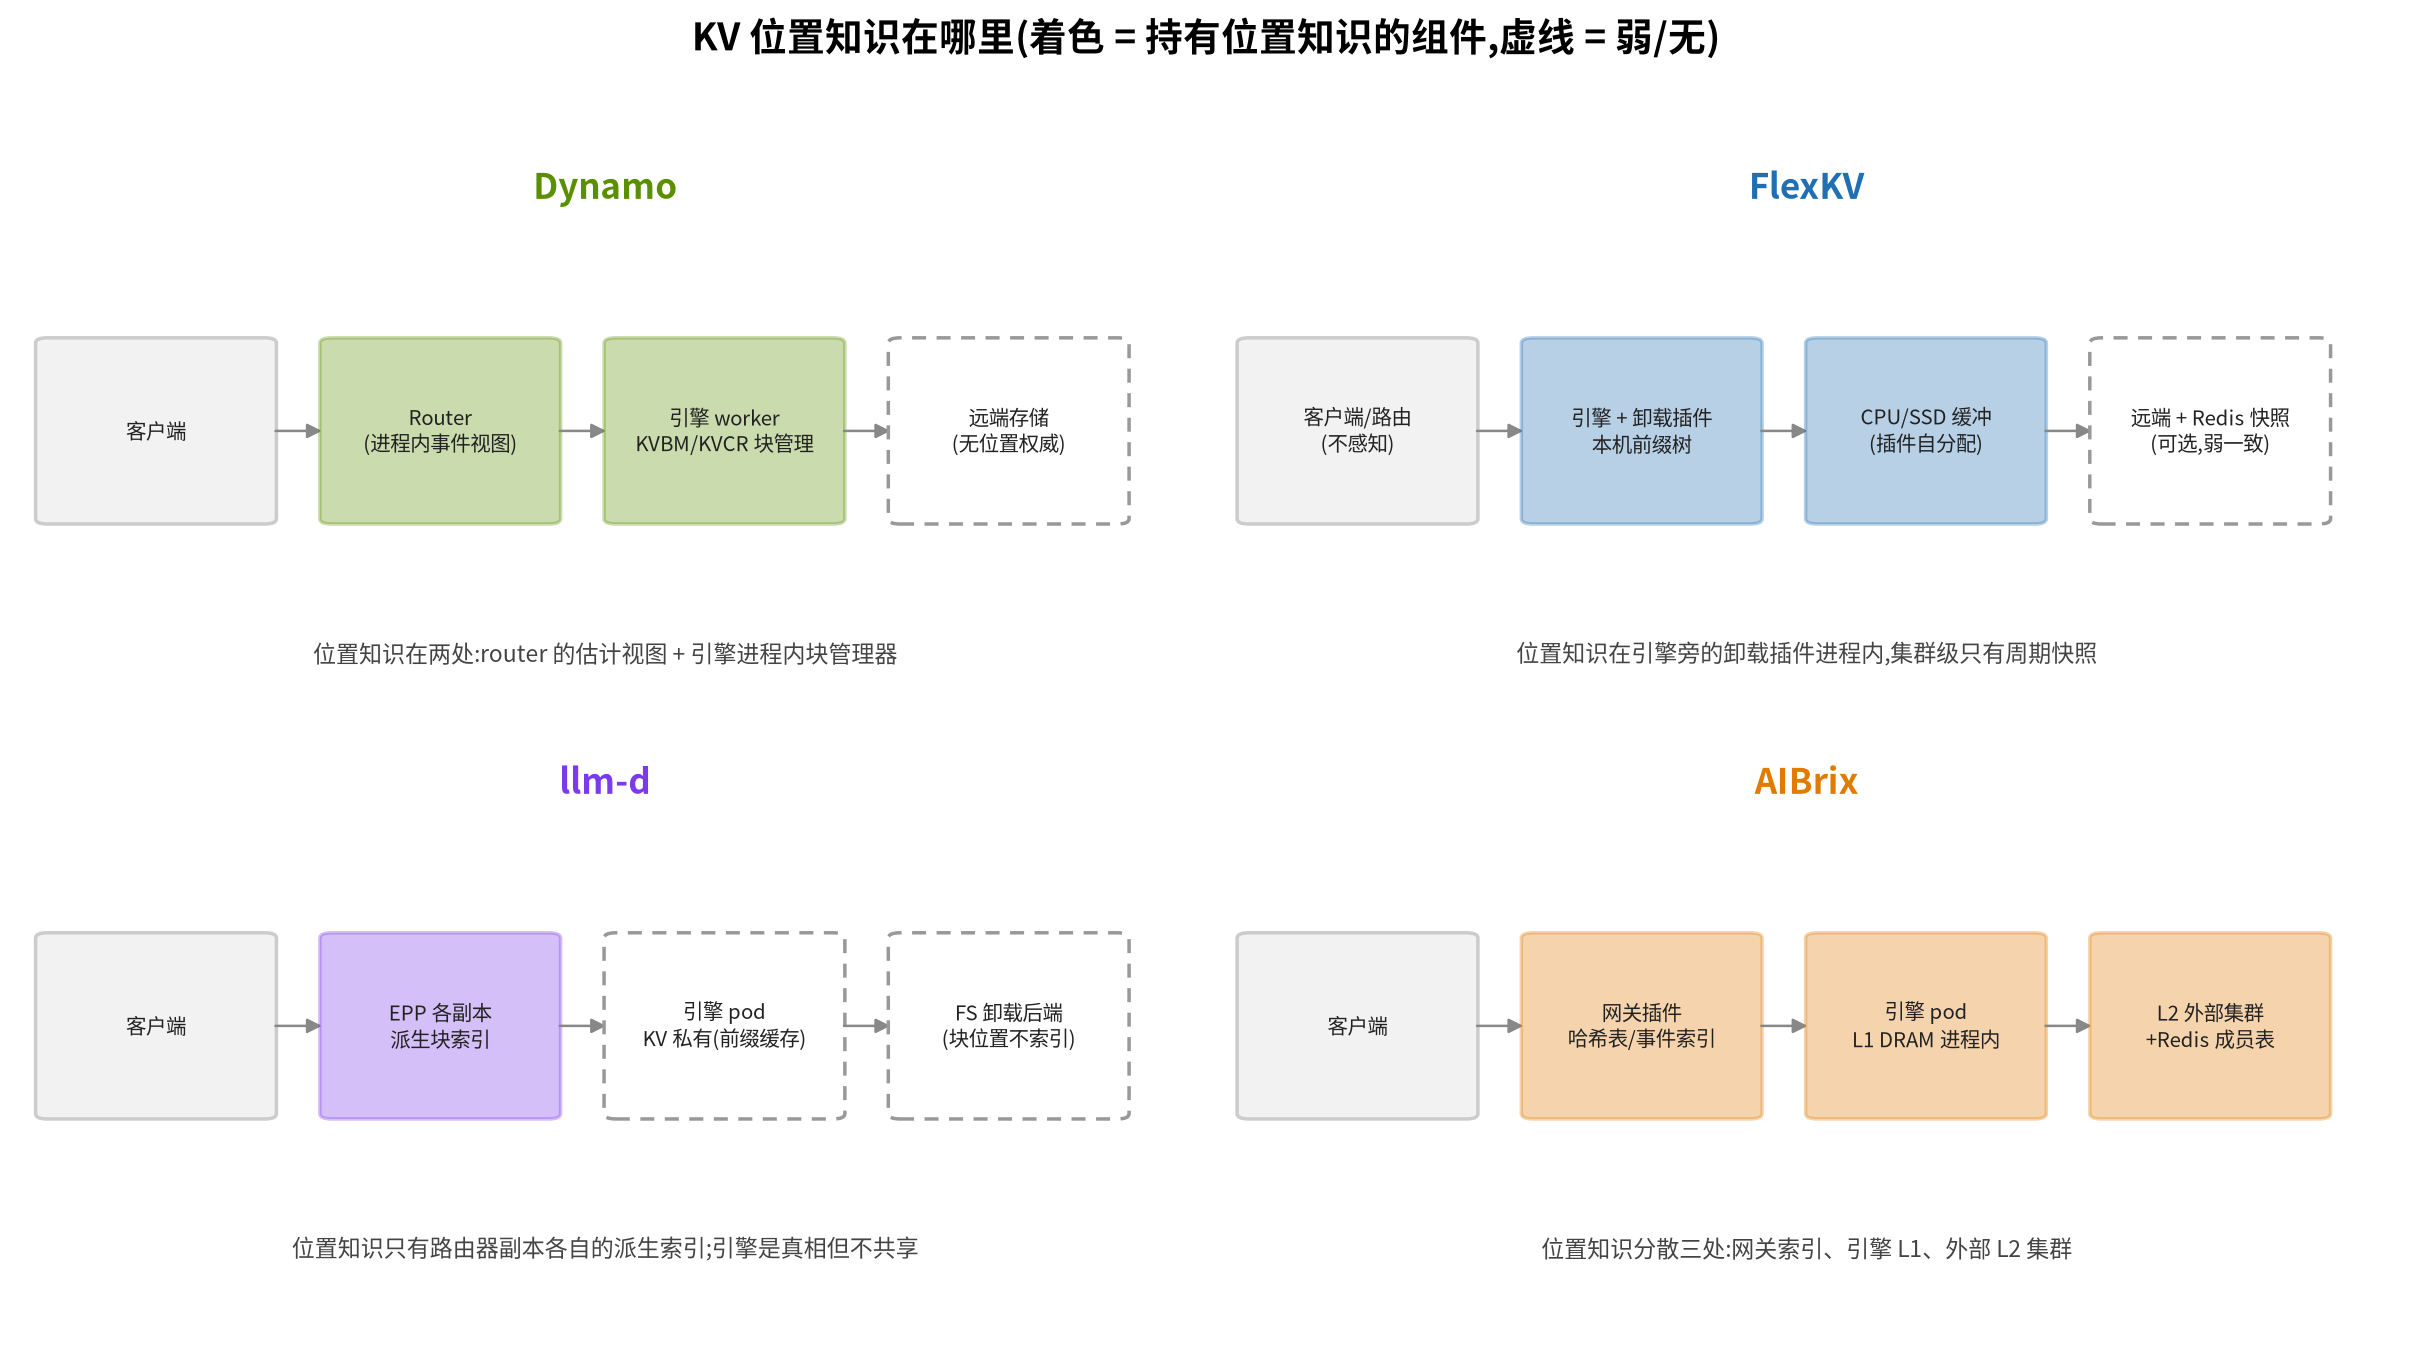
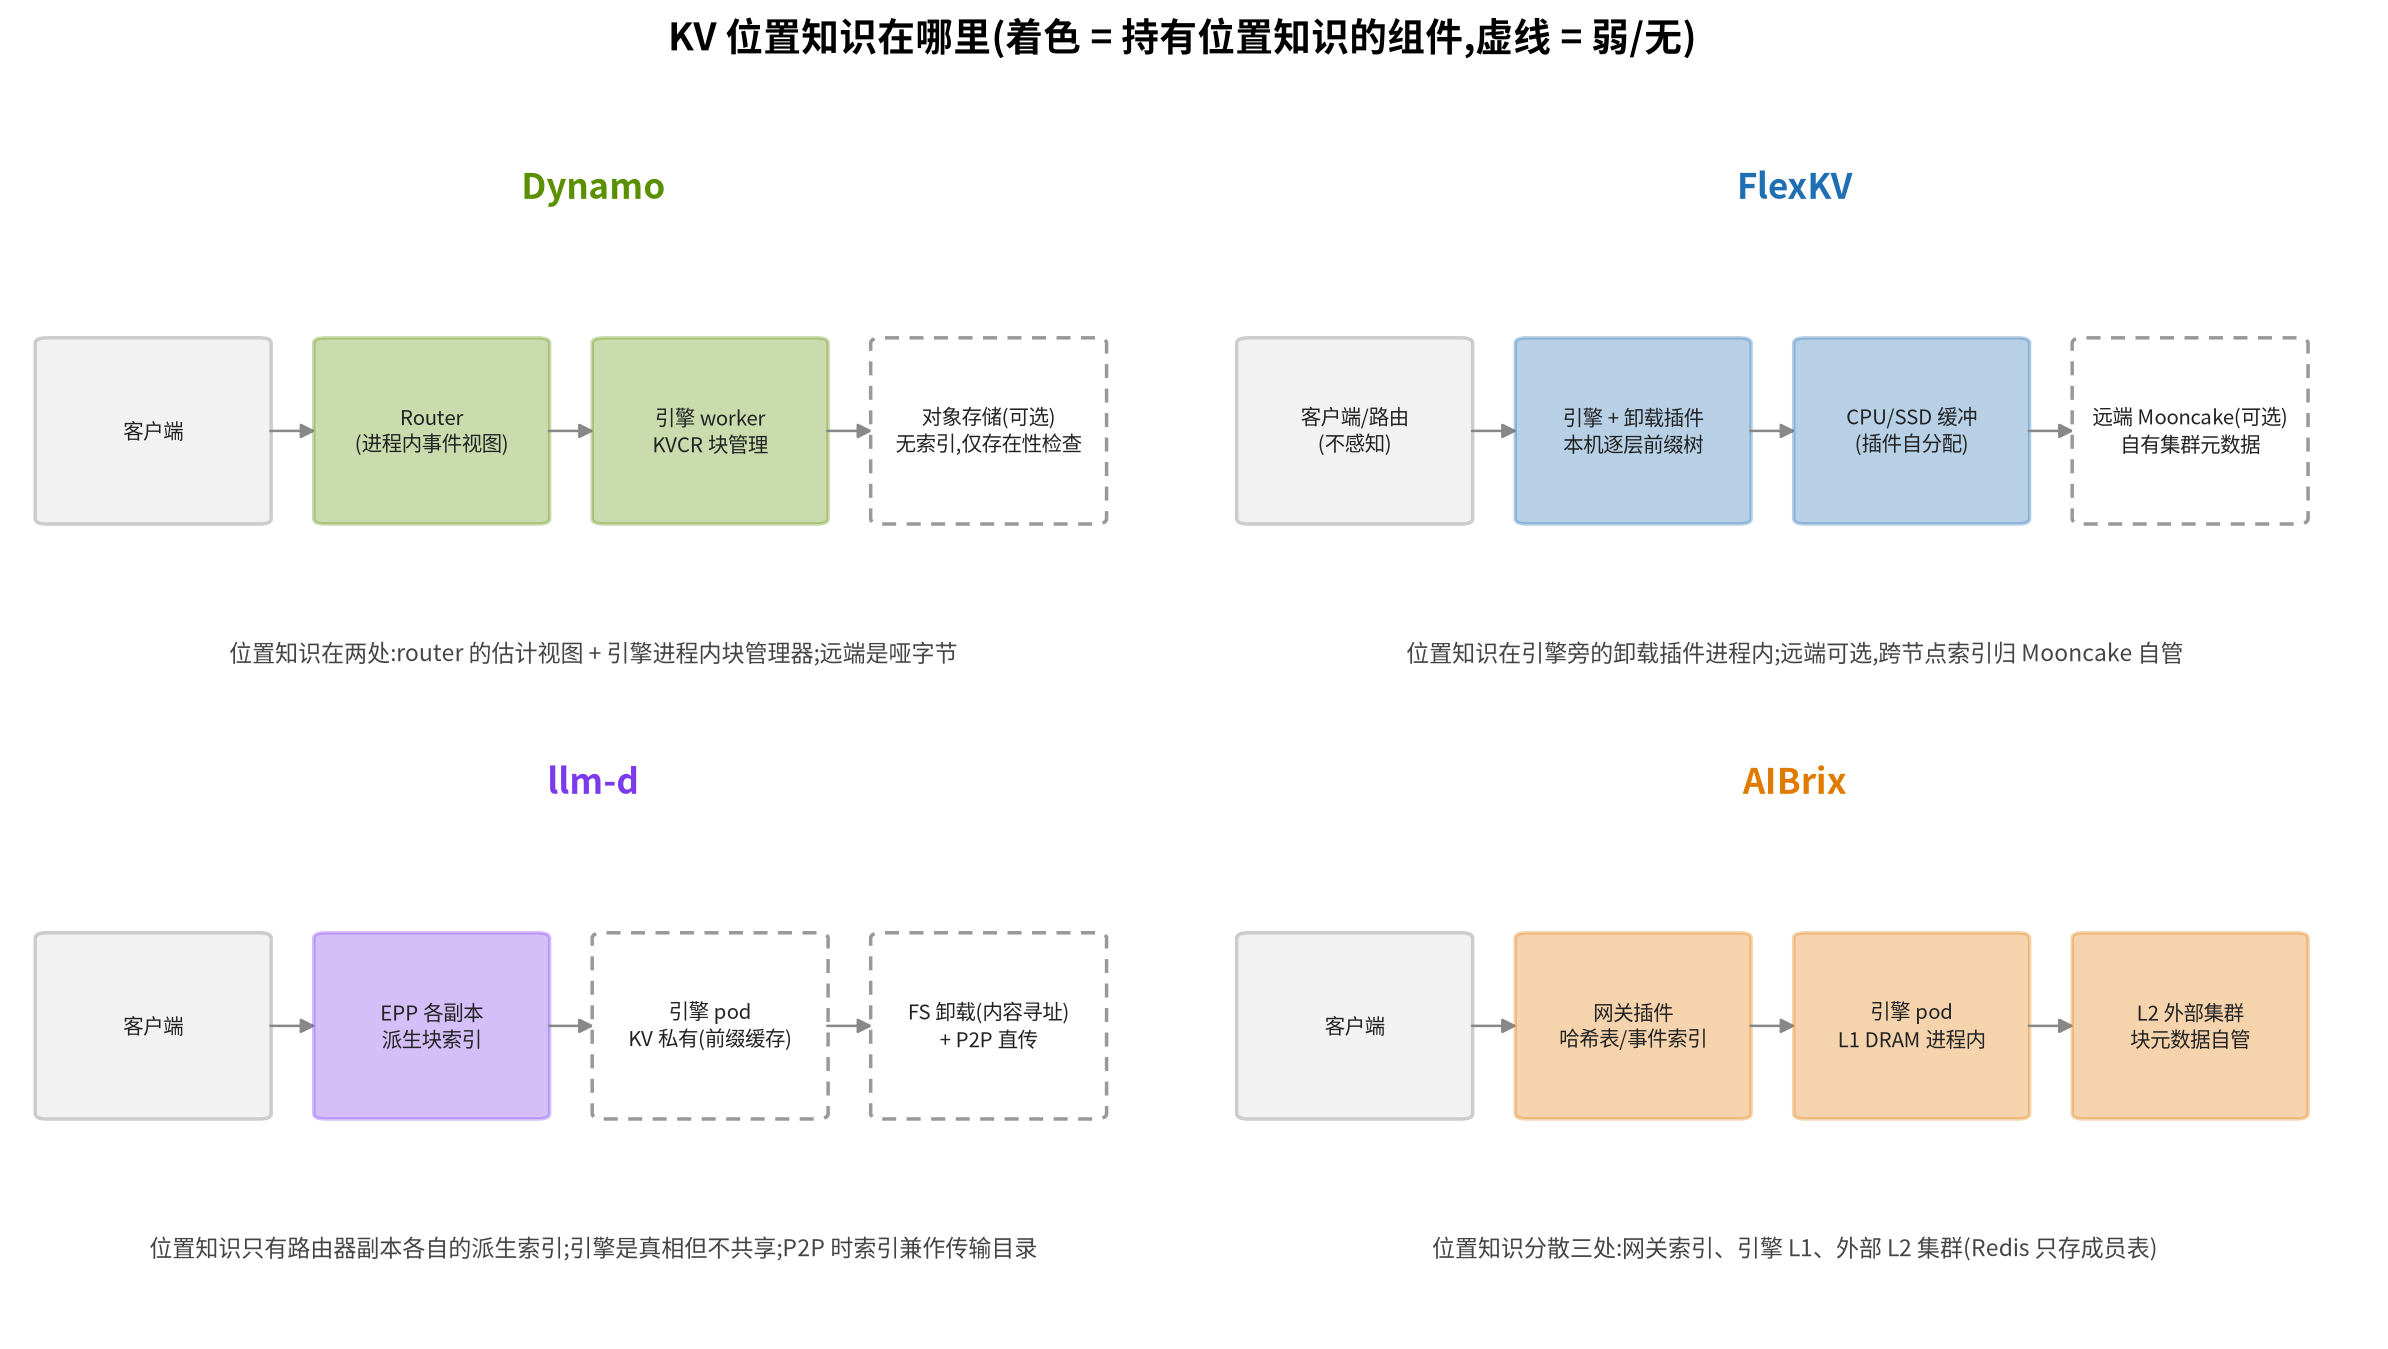
docs(research): 四栈对比按 review 意见修订五处
1. §3 图后补 ◐(部分/附属)逐条说明(引擎对接/FS 上游化/PD 静态角色等)
2. §4 KV 状态归谁按源码核实重写:拆本机/远端两列——Dynamo 对象存储
   无自有索引(KVCR 本地记账,仅存在性检查);FlexKV 远端 Mooncake
   自有集群元数据;llm-d FS 内容寻址无索引;AIBrix L2 块元数据后端
   自管、Redis 只存成员表。远端层对四家都是可选
3. §5 象限补逐项目坐标判定依据(纵轴按 §4 核实事实打分)
4. §6.3 自动扩缩重写:先白话解释三家各是什么(Dynamo Planner 先测
   后算、P/D 独立出副本数;WVA=同模型不同部署配置间的成本感知优化器,
   只出目标副本数交 HPA/KEDA 执行;AIBrix 三算法控制器),再列表对比
5. §6.5 分布式模型与 HA 按模块拆:路由层 / KV 存储层 / 实例控制面,
   指出四家 KV 数据面都不做强 HA,与 lake 存储池定位是本质分歧

fig2 按核实后事实重绘(Dynamo 远端哑字节/FlexKV 远端 Mooncake 自有
元数据/llm-d 加 P2P/AIBrix L2 元数据自管)

diff --git a/docs/research/serving-stack-comparison.md b/docs/research/serving-stack-comparison.md
@@ -30,20 +30,30 @@
 3. **llm-d 集中在入口与编排**:路由(EPP)、PD 编排、K8s CRD 是核心;KV 卸载走引擎原生通道(它贡献的文件系统后端已上游进 vLLM),扩缩在同组织独立仓(WVA)。
 4. **AIBrix 覆盖最广但每块停在平台常规深度**:路由、扩缩、编排、卸载都有,但卸载以引擎为中心(L1 进程内),索引是网关侧估计。
 
+图中 ◐(部分/附属)逐条说明:
+
+- **Dynamo·引擎**:对接 vLLM/SGLang/TRT-LLM,不自研引擎。
+- **FlexKV·引擎**:FlexKV 没有引擎,是以 connector 形态注入别人引擎的库,所以该格标"—"但有文字。
+- **llm-d·引擎**:vLLM 是父项目依赖,不是 router 仓的组件。
+- **llm-d·KV 卸载**:文件系统卸载后端已上游进 vLLM,llm-d 不自维护存储栈;跨实例共享靠 P2P(见 §6.4)。
+- **llm-d·数据传输**:PD/P2P 传输由引擎与边车里的 NIXL 连接器执行,router 仓只下发决策。
+- **AIBrix·引擎**:对接 vLLM/SGLang,不自研。
+- **AIBrix·PD 分离**:只有静态角色编排(StormService),PD 间 KV 传输未落地(代码里是 TODO)。
+
 ## 4. KV 状态归谁:最本质的区别
 
 ![KV 位置知识归属](serving-stack-comparison/figures/fig2-kv-ownership.png)
 
-四个项目对"**哪个块在哪、能不能用**"这个问题的回答方式完全不同:
+四个项目对"**哪个块在哪、能不能用**"这个问题的回答方式完全不同。按"本机/引擎侧"与"远端"分开看(远端对四家都是**可选**的,不是必经路径):
 
-| 项目 | 位置知识在哪 | 一致性 |
-|------|-------------|--------|
-| Dynamo | router 进程内事件视图(估计)+ 引擎 worker 进程内块管理器(KVBM→KVCR) | 事件流最终一致;块管理器私有 |
-| FlexKV | 引擎旁插件进程内,每层一棵前缀树(radix);集群级只有 Redis 周期快照(可选) | 本机权威;集群弱一致 |
-| llm-d | EPP 各副本各自订阅事件流、各自维护派生索引;引擎是真相但不共享;P2P 共享时该索引兼作传输位置目录(只作 hint,握手确认) | 各副本最终一致;幽灵条目可能 |
-| AIBrix | 分散三处:网关索引(哈希表或事件同步两条路线)、引擎进程内 L1、外部 L2 集群(Redis 成员表) | 全部最终一致 |
+| 项目 | 本机/引擎侧的位置知识 | 远端层的位置知识 | 一致性 |
+|------|---------------------|-----------------|--------|
+| Dynamo | 两处:router 进程内事件视图(估计)+ 引擎进程内 KVCR 块管理器(记 DRAM/SSD/对象存储驻留) | **对象存储本身无索引**——KVCR 本地记账,对象存储只是字节,只做存在性检查;router 不需要对象清单做选路(KVCR `design_overview.md`) | 事件流最终一致;块管理器私有 |
+| FlexKV | 引擎旁插件进程内,每层一棵前缀树(CPU/SSD/远端各一) | **远端(Mooncake Store)有自己的集群级元数据**,跨节点可见性靠 Mooncake 不靠 FlexKV;FlexKV 侧只有可选的 Redis 周期快照 | 本机权威;集群弱一致 |
+| llm-d | EPP 各副本各自订阅事件流、各自维护派生索引;引擎是真相但不共享 | FS 卸载**内容寻址、无独立索引**(块键即路径);P2P 共享时 EPP 索引兼作位置目录(只作 hint,握手确认) | 各副本最终一致;幽灵条目可能 |
+| AIBrix | 网关索引(哈希表或事件同步两条路线)+ 引擎进程内 L1 | **L2 外部集群有自己的内部元数据**(InfiniStore/HPKV 自管);Redis 只存成员表,不存块位置 | 全部最终一致 |
 
-一句话:**没有一家有全局强一致的 KV 位置权威**——区别只在"估计"发生在哪、有几份、怎么同步。Dynamo 和 llm-d 把估计放在路由器(事件驱动);AIBrix 放在网关(估计或事件二选一);FlexKV 放在引擎旁(本机精确,集群靠快照)。
+一句话:**没有一家有全局强一致的 KV 位置权威**——区别只在"估计"发生在哪、有几份、怎么同步。Dynamo 和 llm-d 把估计放在路由器(事件驱动);AIBrix 放在网关(估计或事件二选一);FlexKV 放在引擎旁(本机精确,集群靠快照)。远端层都是可选加成:接的对象存储/共享文件系统可以是"哑"字节(Dynamo、llm-d),也可以是自带索引的存储集群(FlexKV 接 Mooncake、AIBrix 接 InfiniStore)——后者等于把远端的位置知识外包给了存储系统。
 
 ## 5. 定位象限
 
@@ -53,6 +63,14 @@
 - **llm-d** 在"栈 × 浅 KV"格:路由与编排做透,KV 只做索引,存储交给引擎原生通道。
 - **Dynamo** 在"运行时 × 中深 KV"格:什么都管,但 KV 管理仍以引擎进程为单位。
 - **AIBrix** 在"平台 × 中深 KV"格:面最广,K8s 耦合最深。
+
+象限坐标的判定依据(纵轴"KV 管理深度"按 §4 核实过的事实打):
+
+- **llm-d 纵轴最低**:自身只有路由器的派生索引;卸载后端上游进了 vLLM(存储语义归引擎),P2P 只是传输编排,没有自有的分层存储系统。
+- **Dynamo 居中**:KVCR 在引擎进程内管理 DRAM/SSD/对象存储三层驻留——层数不少,但管理边界是单个引擎进程,没有集群级存储池,故不到"深"。
+- **AIBrix 略深于 Dynamo**:L1 在引擎进程内(与 Dynamo 同级),但 L2 是 CRD 部署的外部集群,有集群级容量管理;不过块级元数据归 L2 后端自管、逐出决策在引擎侧,所以也不到 FlexKV 的"深"。
+- **FlexKV 最深**:CPU/SSD/远端三层 + 逐层前缀树 + 逐出策略 + 多种传输后端,全部自己实现;它只做这一件事。
+- **横轴**(形态):FlexKV 是库;Dynamo 是运行时(框架内什么都有);llm-d 是路由器 + 项目级工具链;AIBrix 是平台积木(全是 CRD,K8s 耦合最深),故最右。
 
 ## 6. 逐维度对比
 
@@ -83,13 +101,20 @@
 
 ### 6.3 自动扩缩
 
-| | Dynamo | FlexKV | llm-d | AIBrix |
-|---|---|---|---|---|
-| 组件 | Planner(框架内) | 无 | WVA(Workload Variant Autoscaler,同组织独立仓) | PodAutoscaler(框架内 CRD) |
-| 信号 | SLA 反推 + profiler 标定曲线 | — | KV 利用率/队列深度/饱和度(Prometheus) | KV 使用率/排队长度/延迟 |
-| 特点 | 按 TTFT/ITL 目标反推 prefill/decode 各自副本数 | — | 变体(variant,同模型不同硬件/配置)间成本感知:便宜的先扩、贵的先缩;只出目标副本数,交标准 HPA/KEDA 执行 | HPA/KPA/APA 三算法(K8s 原生/Knative 风格/自研),APA 可接 GPU Optimizer 做异构 |
+先说清三家各是什么( FlexKV 是库,不管扩缩,下表不再出现):
 
-**小结**:三家都有 KV 感知的扩缩,但分工不同——Dynamo 是 SLA 反推型(要 profiler 先标定),llm-d WVA 是优化器型(出目标副本数、交给标准 HPA 执行),AIBrix 是传统控制器型(指标直接驱动副本数)。WVA 有论文(arXiv 2603.09730):比 HPA 有效吞吐 +37%、请求失败降 10×。
+- **Dynamo Planner**:框架内置的扩缩器。工作方式是**先测后算**——先用 profiler 实测出"负载 → TTFT/ITL"的性能曲线,运行时拿当前负载对照曲线反推:要满足 SLO,prefill 需要几个实例、decode 需要几个实例。**prefill 和 decode 独立扩缩**(分别输出 `predicted_num_prefill_replicas` 和 `predicted_num_decode_replicas` 两个副本数)。
+- **llm-d WVA**(Workload Variant Autoscaler,工作负载变体扩缩器;同组织独立仓 `llm-d-autoscaling`):"变体"指**同一模型的不同部署配置**(不同 GPU 型号、不同并行方式,成本和容量各不相同)。WVA 读 Prometheus 指标(KV 利用率、队列深度、饱和度),解一个优化问题:每个变体该扩到几个副本,**便宜的配置先扩、贵的先缩**。它只算目标副本数,真正执行扩缩的是 K8s 标准组件(HPA/KEDA)。
+- **AIBrix PodAutoscaler**:框架内 CRD,提供三种算法任选——HPA(K8s 原生,按指标)、KPA(Knative 风格,按并发数)、APA(自研,按 KV 使用率/排队长度/延迟);APA 可接 GPU Optimizer 处理异构机型。
+
+| | Dynamo Planner | llm-d WVA | AIBrix PodAutoscaler |
+|---|---|---|---|
+| 类型 | SLA 反推型 | 优化器型 | 控制器型 |
+| 输入 | 实测性能曲线 + 当前负载 | KV 利用率/队列深度/饱和度 | KV 使用率/排队长度/延迟 |
+| 输出 | prefill、decode **各自**的副本数 | 每个变体的目标副本数 | 整体副本数 |
+| 执行 | 框架内直接执行 | 交标准 HPA/KEDA 执行 | 框架内 CRD 直接执行 |
+
+**小结**:三家都做到了 KV 感知的扩缩,差别在建模方式——Dynamo 要先用 profiler 标定曲线(准,但要标定步骤);WVA 把扩缩当优化问题解,且考虑异构成本(有论文,arXiv 2603.09730:比 HPA 有效吞吐 +37%、请求失败降 10×);AIBrix 是传统的指标驱动控制器,算法可选。Dynamo 的 P/D 独立扩缩是三者中唯一按角色分别出副本数的。
 
 ### 6.4 KV 卸载与存储
 
@@ -106,13 +131,15 @@
 
 ### 6.5 分布式模型与 HA
 
-| | Dynamo | FlexKV | llm-d | AIBrix |
-|---|---|---|---|---|
-| 元数据权威 | 无单点权威;etcd/nats 传事件 | 本机树;Redis 快照可选 | 引擎事件是真相,EPP 索引是派生缓存 | K8s etcd(编排)+ Redis(用户/限流) |
-| 副本一致性 | 各 router 各自收敛 | 无副本概念 | 各 EPP 副本各自订阅收敛 | 默认各自为政,可选 Redis 最终一致 |
-| HA | 控制面 etcd/nats 可集群化 | 进程随引擎生死 | Active-Passive 选主 / fail-open 直打 | 网关无状态,Redis 单点风险 |
+按三个模块分开看——路由层、KV 存储层、实例控制面(编排与元数据),各项目的分布式模型在三个模块上并不相同:
 
-**小结**:四家都属于"事件/快照最终一致"这一类(distributed-models.md 的 C 类);没有一家给 KV 位置知识配强一致权威。HA 思路上 llm-d 最直白:索引是派生的,丢了重建,所以敢 fail-open。
+| 模块 | Dynamo | FlexKV | llm-d | AIBrix |
+|------|--------|--------|-------|--------|
+| **路由层** | 独立 router 进程,各副本各自消费事件流收敛视图;无状态可水平扩 | 无此层 | EPP 多副本各自订阅事件流;HA 三模式:Active-Passive 选主 / fail-open 直打 / Active-Active(近似前缀下应避免) | 网关插件无状态,多副本默认各自为政,可选 Redis 同步索引 |
+| **KV 存储层** | KVCR 在引擎进程内,随引擎生死;对象存储可选、无自有索引;跨节点共享靠 router hint + P2P | 本机前缀树随引擎进程;远端可选(Mooncake 自带集群元数据与 HA);Redis 快照可选 | FS 后端靠文件系统自身语义;P2P 无中心数据面;都无位置权威 | L1 随 pod 消亡;L2 外部集群由 CRD 部署,块元数据后端自管,成员表在 Redis(单点风险) |
+| **实例控制面** | operator + 部署 CRD,元数据在 K8s etcd;控制面事件走 etcd/nats(可集群化) | 无此层 | InferencePool 等 CRD,K8s etcd 权威 | CRD 全家桶 + Metadata Service(Redis);编排元数据在 K8s etcd |
+
+**小结**:四家都属于"事件/快照最终一致"这一类(distributed-models.md 的 C 类);没有一家给 KV 位置知识配强一致权威。分模块看,HA 思路最直白的是 llm-d 路由层:索引是派生的,丢了重建,所以敢 fail-open;KV 存储层四家都接受"缓存丢了就重算"的语义,没人给 KV 数据面做强 HA——这与 lake"存储池是长期存续基础设施、L2 为恢复点"的定位是本质分歧。
 
 ### 6.6 其余硬条件
 
